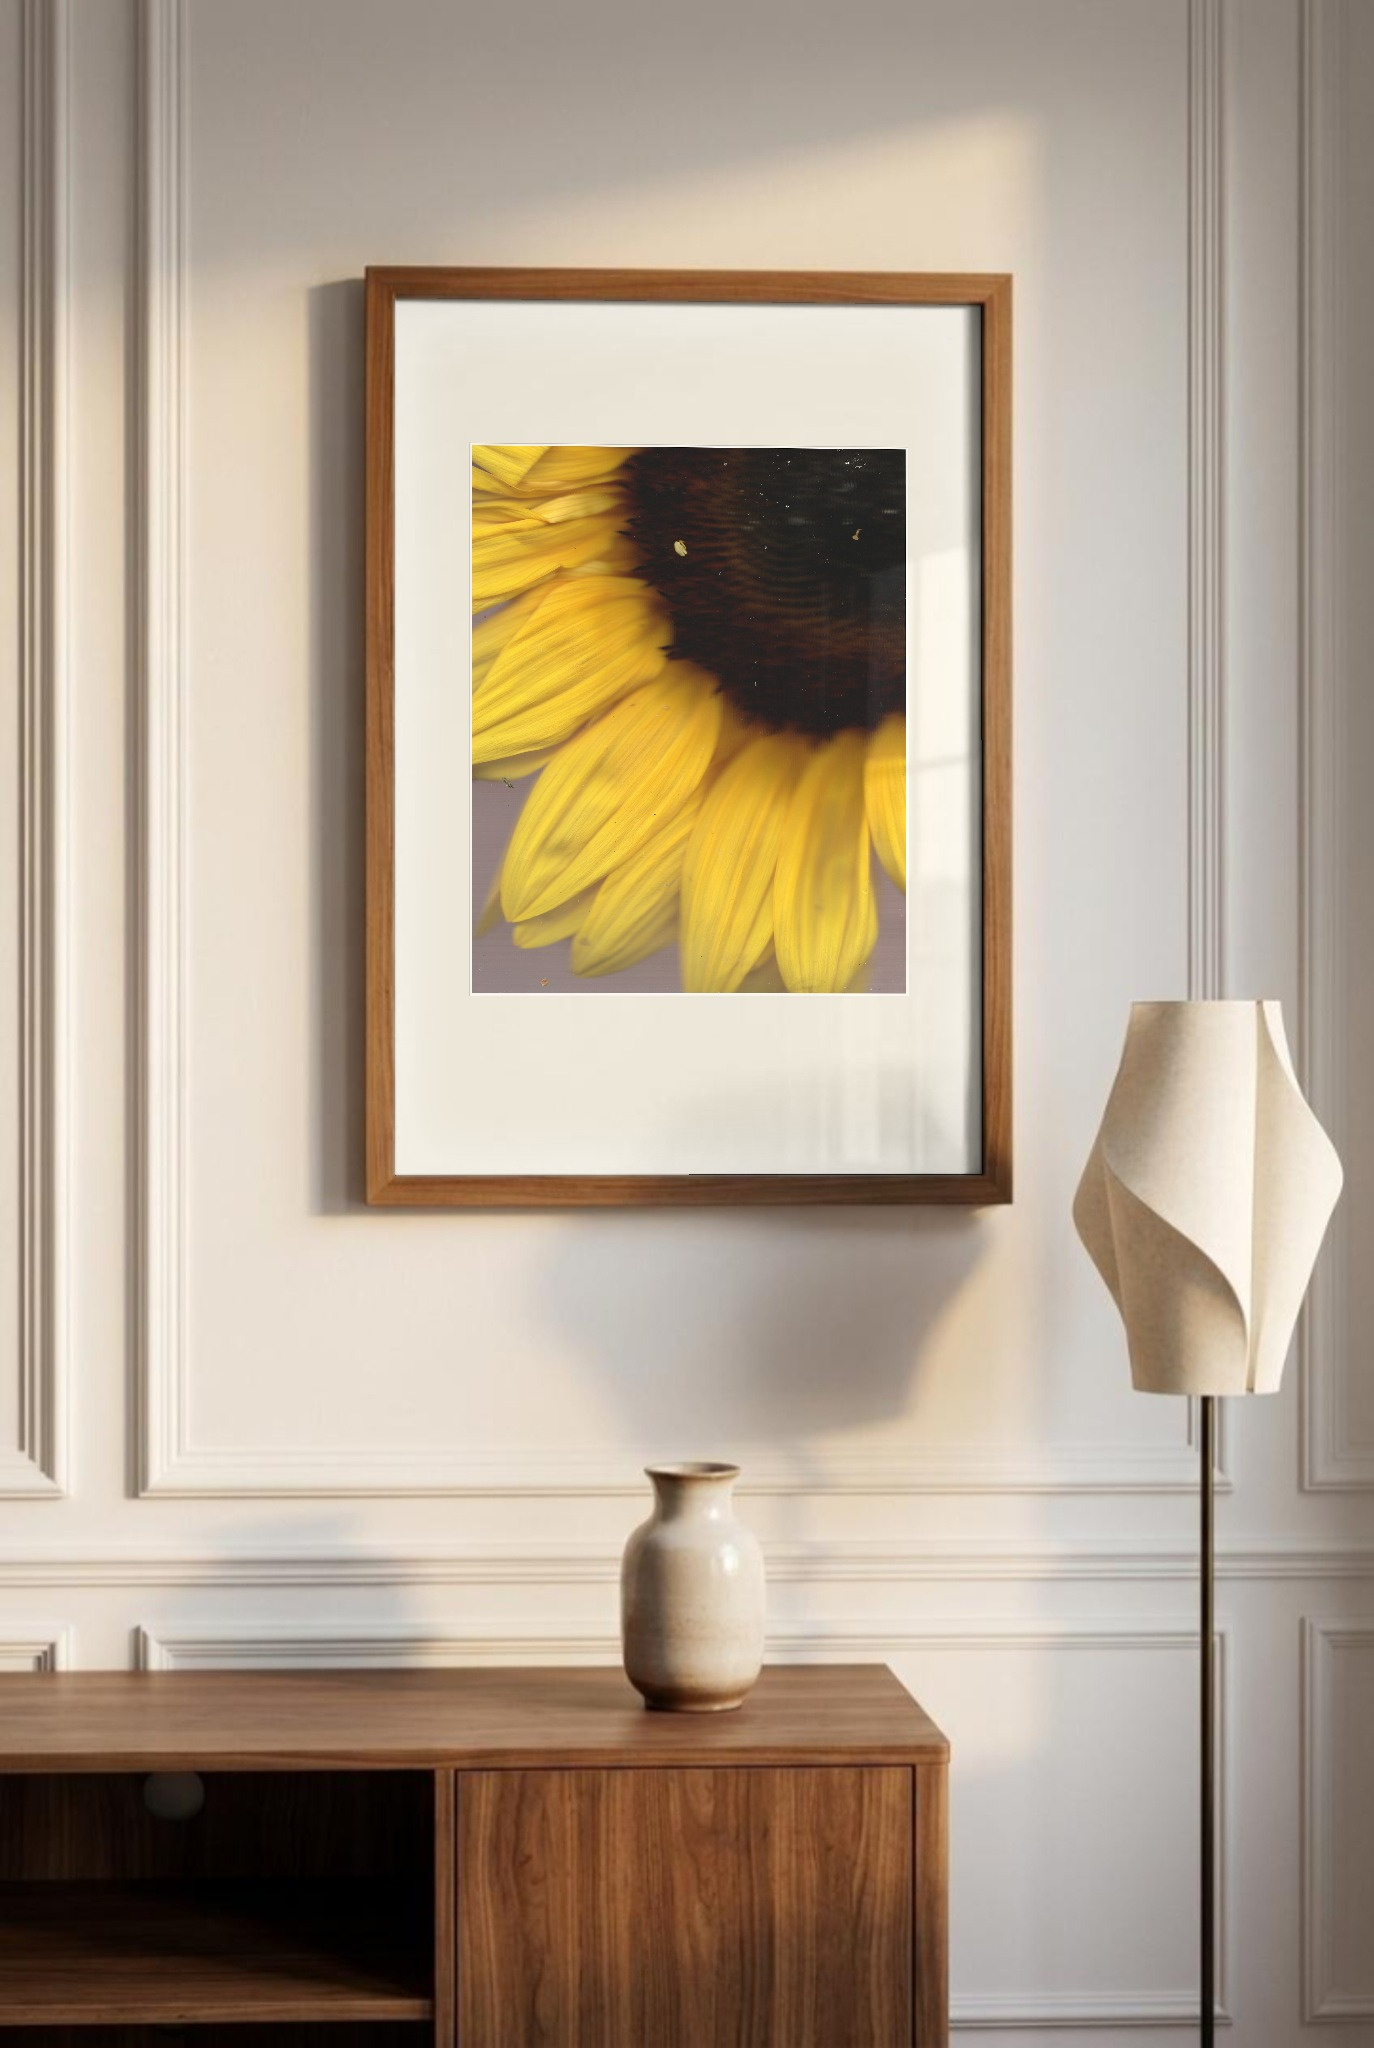
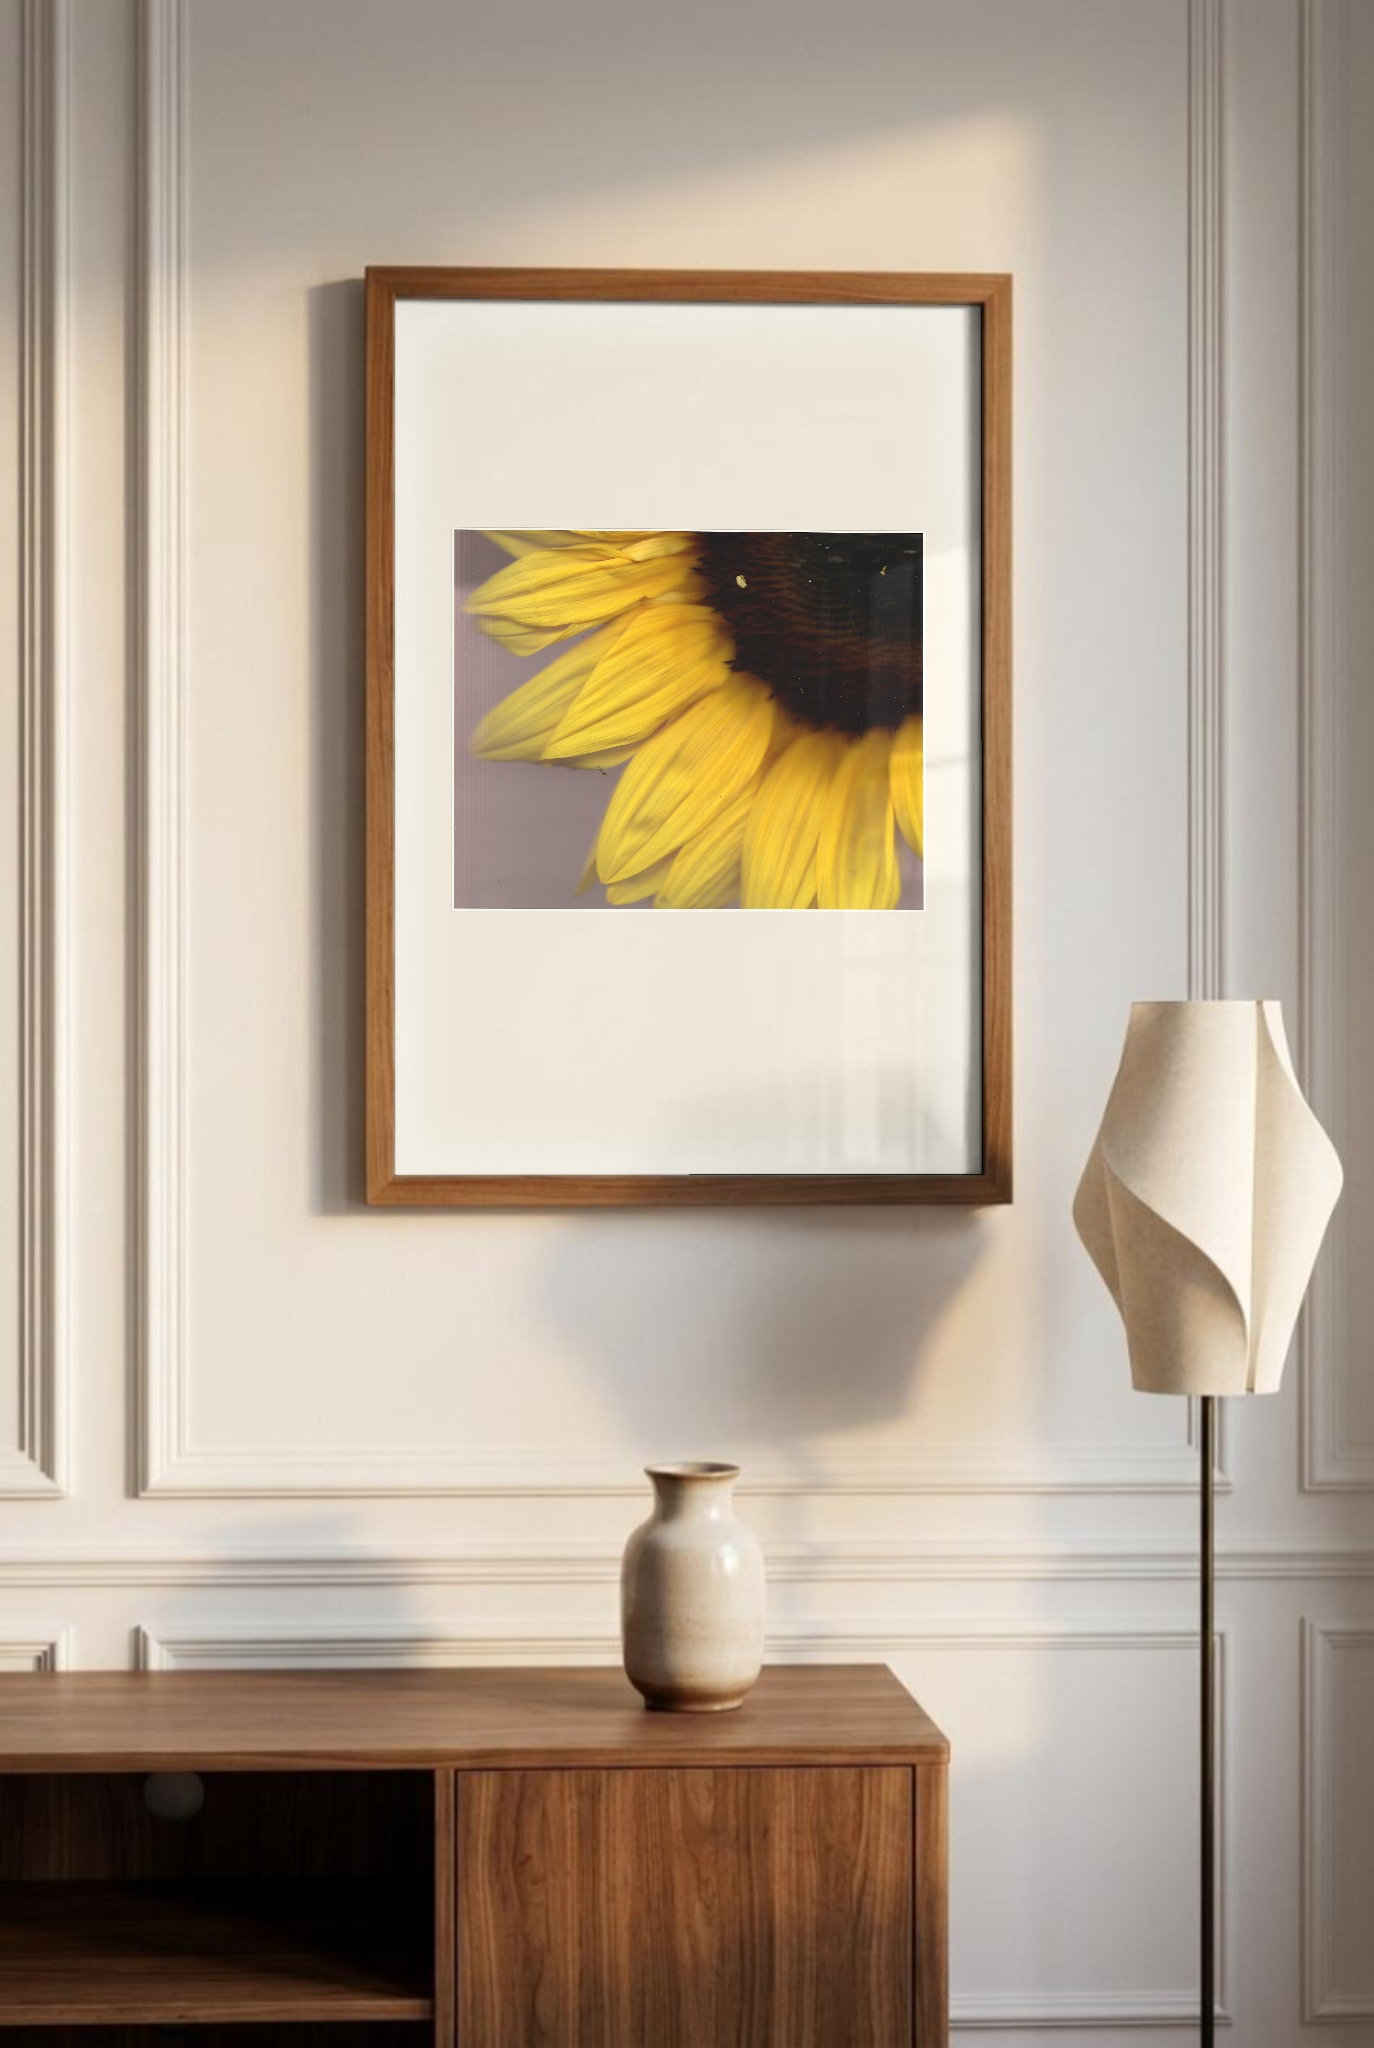
Point print files at original scans, add test-order run
Artelo prints from the original full-resolution Drive scans with a centered
4:5 crop. Prelude in Gold switches to horizontal so the centered crop keeps
the sunflower's center. Adds an end-to-end test-order workflow option.

Claude-Session: https://claude.ai/code/session_014pDiP3UmEaLr453ZbTSqYo

Changed region(s): [[0.3057, 0.2188, 0.6725, 0.5]]

diff --git a/open-editions/README.md b/open-editions/README.md
@@ -28,10 +28,11 @@ Sizes and prices live in `lib.mjs`. Names and copy live in `catalog.json`. Produ
    - `SQUARESPACE_API_KEY`: Squarespace → Settings → Developer Tools → Developer API Keys, with Products and Orders set to Read and Write.
    - `ARTELO_API_KEY`: Artelo → Integrations → API.
 2. **Store page.** In Squarespace, add a Store page titled exactly **Open Editions**.
-3. **Print files.** Put the 17 print files in Google Drive (link sharing on) and fill `printFileDriveId` for each print in `catalog.json`.
+3. **Print files.** Each print in `catalog.json` points at its original full-resolution scan in Google Drive (`printFileDriveId`, link sharing on). Artelo crops it to 4:5 from the center.
 4. **Test mode.** Under Settings → Secrets and variables → Actions → Variables, add `ARTELO_TEST_ORDERS` = `true`.
 5. **Run it.** Go to Actions → Open Editions → Run workflow and run these in order:
    - `check-setup`: confirms both keys work, the store page exists, and Artelo accepts the sizes.
    - `create-products-hidden`: creates all 17 products, hidden, with photos.
+   - `test-order` places a Squarespace order through the API, checks it reaches Artelo as a test order, then closes it quietly.
    - Look them over in Squarespace, then run `publish-products`.
 6. **Go live.** Place a test order. If it appears in Artelo as a test order, set `ARTELO_TEST_ORDERS` to `false`.
